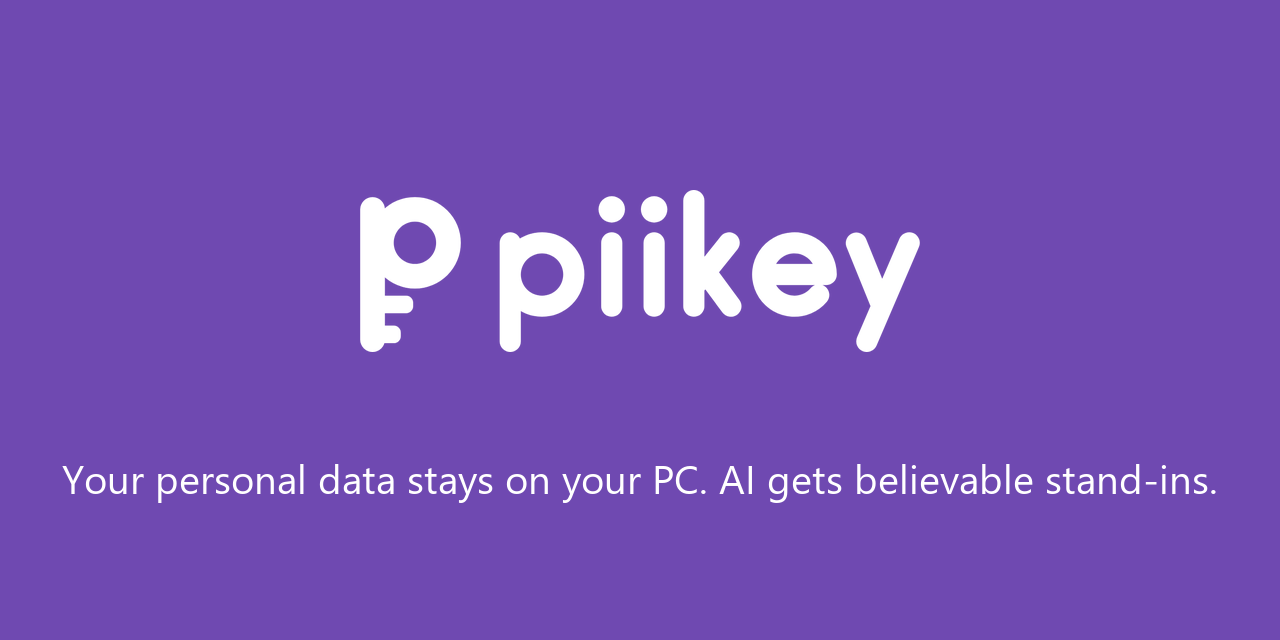
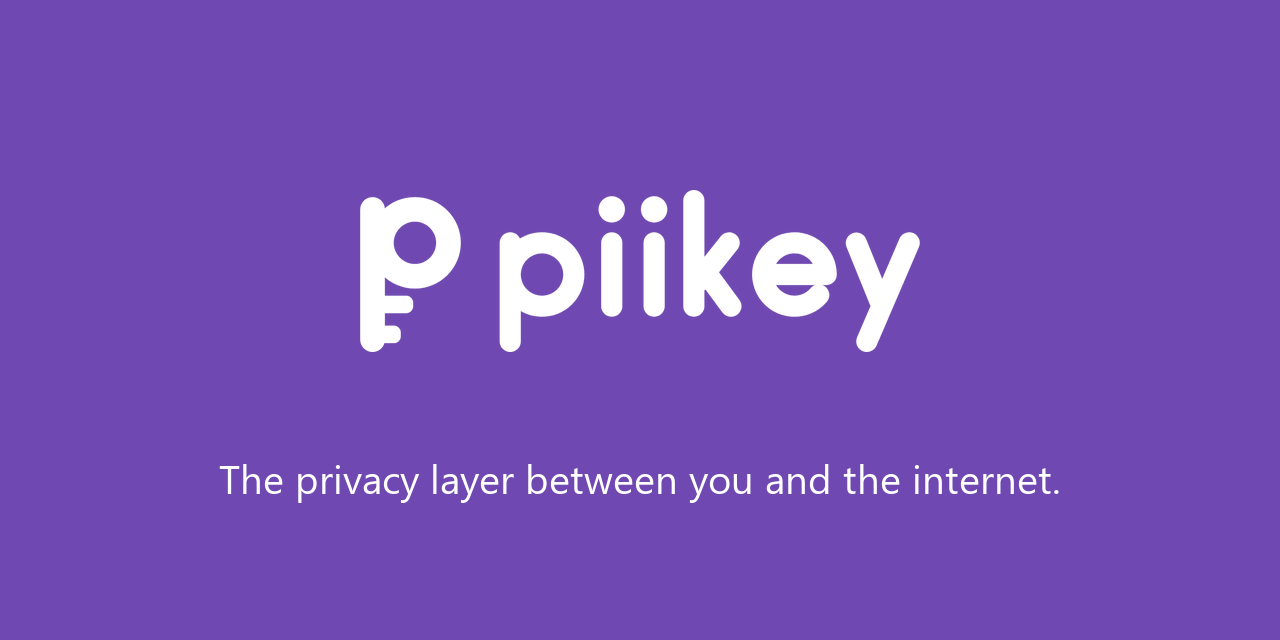
docs: lead the README with a before/after card, new tagline and fewer badges

Changed region(s): [[0.0312, 0.7188, 0.9375, 0.7812]]

diff --git a/assets/brand/make-hero.py b/assets/brand/make-hero.py
@@ -1,0 +1,135 @@
+"""Rebuilds docs/assets/hero-{light,dark}.png, the README's before/after card.
+
+Left: a message as you type it, your values marked. Right: what the site receives, each value
+swapped for piikey's stand-in. The text is real `piikey-cli anonymize` output; keep it that way
+when you change it. Transparent background, so it sits on GitHub's light or dark page.
+    python assets/brand/make-hero.py
+"""
+
+from pathlib import Path
+
+from PIL import Image, ImageDraw, ImageFont
+
+HERE = Path(__file__).resolve().parent
+OUT = HERE.parent.parent / "docs" / "assets"
+FONTS = Path(r"C:\Windows\Fonts")
+SYMBOL = HERE / "piikey-logo-kit" / "symbol" / "piikey-symbol-mono-{}-512.png"
+
+# (text, stand-in or None): plain text has None.
+MESSAGE = [
+    ("Hi, I'm ", None),
+    ("Sanne de Vries", "Eline de Deruiter"),
+    (" (", None),
+    ("sanne.devries@example.nl", "carolyn.carter38@olivedawn.nl"),
+    (", ", None),
+    ("+31 6 12345678", "+31 6 48171596"),
+    ("). Please refund €250 to ", None),
+    ("NL91ABNA0417164300", "NL69ABNA4201013737"),
+    (": my card ", None),
+    ("4111 1111 1111 1111", "4493 2819 7493 4301"),
+    (" was charged twice. I live at ", None),
+    ("Keizersgracht 123, 1015 CJ Amsterdam", "Crimsonvia 634, 4351 CJ Pinecliff"),
+    (".", None),
+]
+
+THEMES = {
+    "light": {
+        "card": "#ffffff", "border": "#e4dff0", "text": "#1f1f1f", "muted": "#6b6b78",
+        "own_bg": "#f1eff4", "own_fg": "#1f1f1f", "proxy_bg": "#ece4fb", "proxy_fg": "#5a37a0",
+        "accent": "#6f49b1", "symbol": "6f49b1",
+    },
+    "dark": {
+        "card": "#26232d", "border": "#3a3545", "text": "#ecebef", "muted": "#a19cad",
+        "own_bg": "#3a3742", "own_fg": "#ecebef", "proxy_bg": "#3f3360", "proxy_fg": "#d6c9f9",
+        "accent": "#d6c9f9", "symbol": "d6c9f9",
+    },
+}
+
+S = 2  # drawn at 2x for sharp text on high-DPI screens
+W, H = 1600 * S, 450 * S
+CARD_W, CARD_TOP, CARD_H = 660 * S, 40 * S, 330 * S
+PAD = 36 * S
+GAP = W - 2 * CARD_W - 2 * 40 * S  # the space between the cards, for the key and the arrow
+FONT = ImageFont.truetype(str(FONTS / "segoeui.ttf"), 25 * S)
+FONT_SB = ImageFont.truetype(str(FONTS / "segoeuisl.ttf"), 25 * S)
+LABEL = ImageFont.truetype(str(FONTS / "segoeuib.ttf"), 17 * S)
+CAPTION = ImageFont.truetype(str(FONTS / "segoeui.ttf"), 19 * S)
+LINE = 44 * S
+PILL_X = 7 * S
+
+
+def tokens(side: int):
+    """(word, marked) pieces; a marked value stays one piece so its pill is never split."""
+    for text, proxy in MESSAGE:
+        if proxy is None:
+            for i, word in enumerate(text.split(" ")):
+                yield ((" " if i else "") + word, False)
+        else:
+            yield ((text, proxy)[side], True)
+
+
+def card(draw: ImageDraw.ImageDraw, x: int, side: int, theme: dict, label: str) -> None:
+    draw.rounded_rectangle(
+        (x, CARD_TOP, x + CARD_W, CARD_TOP + CARD_H), 22 * S, fill=theme["card"], outline=theme["border"], width=2 * S
+    )
+    color = theme["accent"] if side else theme["muted"]
+    draw.text((x + PAD, CARD_TOP + PAD - 6 * S), label.upper(), font=LABEL, fill=color)
+    cx, cy = x + PAD, CARD_TOP + PAD + 40 * S
+    right = x + CARD_W - PAD
+    bg, fg = (theme["proxy_bg"], theme["proxy_fg"]) if side else (theme["own_bg"], theme["own_fg"])
+    for piece, marked in tokens(side):
+        font = FONT_SB if marked else FONT
+        width = draw.textlength(piece, font=font) + (2 * PILL_X if marked else 0)
+        if cx + width > right:
+            cx, cy = x + PAD, cy + LINE
+            piece = piece.lstrip()
+            width = draw.textlength(piece, font=font) + (2 * PILL_X if marked else 0)
+        if marked:
+            cx += 2 * S  # breathing room between a pill and the text before it
+            top = cy + 5 * S
+            draw.rounded_rectangle(
+                (cx, top, cx + draw.textlength(piece, font=font) + 2 * PILL_X, top + 34 * S), 8 * S, fill=bg
+            )
+            draw.text((cx + PILL_X, cy), piece, font=font, fill=fg)
+            cx += draw.textlength(piece, font=font) + 2 * PILL_X
+        else:
+            draw.text((cx, cy), piece, font=font, fill=theme["text"])
+            cx += width
+
+
+def middle(canvas: Image.Image, draw: ImageDraw.ImageDraw, theme: dict) -> None:
+    mid_x, mid_y = W // 2, CARD_TOP + CARD_H // 2
+    r = 46 * S
+    draw.ellipse((mid_x - r, mid_y - r, mid_x + r, mid_y + r), fill=theme["card"], outline=theme["accent"], width=3 * S)
+    symbol = Image.open(str(SYMBOL).format(theme["symbol"])).convert("RGBA")
+    size = int(r * 1.15)
+    symbol = symbol.resize((size, size), Image.Resampling.LANCZOS)
+    canvas.paste(symbol, (mid_x - size // 2, mid_y - size // 2), symbol)
+    for sign in (-1, 1):  # short arrow stems on both sides of the key, pointing right
+        start = mid_x + sign * (r + 10 * S)
+        end = mid_x + sign * (GAP // 2 - 8 * S)
+        a, b = sorted((start, end))
+        draw.line((a, mid_y, b, mid_y), fill=theme["accent"], width=3 * S)
+    tip = mid_x + GAP // 2 - 8 * S
+    draw.polygon([(tip, mid_y), (tip - 12 * S, mid_y - 9 * S), (tip - 12 * S, mid_y + 9 * S)], fill=theme["accent"])
+
+
+def render(name: str, theme: dict) -> None:
+    canvas = Image.new("RGBA", (W, H), (0, 0, 0, 0))
+    draw = ImageDraw.Draw(canvas)
+    left = 40 * S
+    card(draw, left, 0, theme, "You type")
+    card(draw, W - left - CARD_W, 1, theme, "The internet sees")
+    middle(canvas, draw, theme)
+    caption = "Same shape, still valid: the IBAN passes mod-97, the card passes Luhn. The reply comes back with your real values."
+    width = draw.textlength(caption, font=CAPTION)
+    draw.text(((W - width) // 2, CARD_TOP + CARD_H + 22 * S), caption, font=CAPTION, fill=theme["muted"])
+    OUT.mkdir(parents=True, exist_ok=True)
+    out = OUT / f"hero-{name}.png"
+    canvas.save(out, optimize=True)
+    print(f"wrote {out}")
+
+
+if __name__ == "__main__":
+    for name, theme in THEMES.items():
+        render(name, theme)

diff --git a/assets/brand/make-social-preview.py b/assets/brand/make-social-preview.py
@@ -18,7 +18,7 @@ SIZE = (1280, 640)
 PURPLE = "#6f49b1"
 LOGO_WIDTH = 560
 LOGO_TOP = 190
-TAGLINE = "Your personal data stays on your PC. AI gets believable stand-ins."
+TAGLINE = "The privacy layer between you and the internet."
 TAGLINE_SIZE = 40
 TAGLINE_TOP = 450
 

diff --git a/README.md b/README.md
@@ -5,17 +5,22 @@
   <img alt="piikey" src="assets/brand/piikey-logo-kit/horizontal/piikey-horizontal-mono-6f49b1.svg" height="96">
 </picture>
 
-<h3>Your personal data stays on your PC. AI gets believable stand-ins.</h3>
+<h3>The privacy layer between you and the internet.</h3>
 
-[![CI](https://github.com/TBLgGamin/piikey/actions/workflows/ci.yml/badge.svg?branch=main)](https://github.com/TBLgGamin/piikey/actions/workflows/ci.yml)
 [![Release](https://img.shields.io/github/v/release/TBLgGamin/piikey?sort=semver&color=6f49b1&style=flat)](https://github.com/TBLgGamin/piikey/releases/latest)
 [![Downloads](https://img.shields.io/github/downloads/TBLgGamin/piikey/total?color=6f49b1&style=flat)](https://github.com/TBLgGamin/piikey/releases)
+[![CI](https://github.com/TBLgGamin/piikey/actions/workflows/ci.yml/badge.svg?branch=main)](https://github.com/TBLgGamin/piikey/actions/workflows/ci.yml)
 [![License: MIT](https://img.shields.io/github/license/TBLgGamin/piikey?style=flat)](LICENSE)
-[![Platform](https://img.shields.io/badge/platform-Windows%2010%20%7C%2011-0078D6?logo=windows&style=flat)](#install)
-[![Rust 1.95](https://img.shields.io/badge/rust-1.95-orange?logo=rust&style=flat)](rust-toolchain.toml)
-[![unsafe forbidden](https://img.shields.io/badge/unsafe-forbidden-success?style=flat)](Cargo.toml)
-[![OpenSSF Scorecard](https://api.scorecard.dev/projects/github.com/TBLgGamin/piikey/badge)](https://scorecard.dev/viewer/?uri=github.com/TBLgGamin/piikey)
-[![Conventional Commits](https://img.shields.io/badge/Conventional%20Commits-1.0.0-%23FE5196?logo=conventionalcommits&logoColor=white&style=flat)](https://www.conventionalcommits.org)
+[![Windows 10 | 11](https://img.shields.io/badge/Windows-10%20%7C%2011-0078D6?logo=windows&style=flat)](#install)
+
+<br>
+
+<picture>
+  <source media="(prefers-color-scheme: dark)" srcset="docs/assets/hero-dark.png">
+  <img alt="You type: Hi, I'm Sanne de Vries (sanne.devries@example.nl, +31 6 12345678)... The internet sees: Hi, I'm Eline de Deruiter (carolyn.carter38@olivedawn.nl, +31 6 48171596)..., every value swapped for a stand-in of the same shape" src="docs/assets/hero-light.png" width="100%">
+</picture>
+
+<br><br>
 
 [![Download for Windows x64](https://img.shields.io/badge/Download-Windows%20x64-6f49b1?style=for-the-badge&logo=windows&logoColor=white)](https://github.com/TBLgGamin/piikey/releases/latest)
 
@@ -23,31 +28,21 @@
 
 </div>
 
-<br>
+## What it is
+
+piikey sits between you and the sites and programs you choose: chatbots, webmail, forms, anything
+that goes through the Windows proxy. Before a message leaves your PC, it finds the names, emails,
+phone numbers, IBANs, card numbers, addresses and other personal data in it and swaps each one for a
+believable stand-in of the same shape. When the answer comes back, piikey puts your real values
+back in. Detection, the stand-ins and the vault that remembers them all stay on your machine.
+
+The example above is real `piikey-cli anonymize` output, and `piikey-cli deanonymize` turns the
+right side back into the left character for character.
 
 <picture>
   <source media="(prefers-color-scheme: dark)" srcset="docs/assets/screenshots/home-dark.png">
   <img alt="piikey's Home page: protection switch, values keyed, masked and restored today, a 14-day chart and a by-kind chart" src="docs/assets/screenshots/home-light.png" width="900">
 </picture>
-
-## What it is
-
-piikey sits between you and the AI chatbots you use. Before a message leaves your PC, it finds the
-names, emails, phone numbers, IBANs, card numbers, addresses and other personal data in it and
-swaps each one for a believable stand-in of the same shape. When the answer comes back, piikey puts
-your real values back in. Detection, the stand-ins and the vault that remembers them all stay on
-your machine.
-
-## See it work
-
-| You type | The AI receives |
-|---|---|
-| Hi, I'm Sanne de Vries (sanne.devries@example.nl, +31 6 12345678). Please refund €250 to NL91ABNA0417164300: my card 4111 1111 1111 1111 was charged twice. I live at Keizersgracht 123, 1015 CJ Amsterdam. | Hi, I'm Eline de Deruiter (carolyn.carter38@olivedawn.nl, +31 6 48171596). Please refund €250 to NL69ABNA4201013737: my card 4493 2819 7493 4301 was charged twice. I live at Crimsonvia 634, 4351 CJ Pinecliff. |
-
-That is real `piikey-cli anonymize` output. The stand-ins keep their shape: the IBAN still passes
-mod-97, the card still passes Luhn, the phone number is still Dutch. Running `piikey-cli
-deanonymize` on the right column gives back the left column character for character, and the app
-does the same to the chatbot's reply as it streams in.
 
 ## Features
 
@@ -78,7 +73,7 @@ sequenceDiagram
     participant You
     participant App as Browser or app
     participant piikey as piikey (on your PC)
-    participant AI as AI service
+    participant AI as Website or AI service
     You->>App: type or paste a message
     App->>piikey: request with your message
     piikey->>piikey: find personal data, issue stand-ins, store the pairs in the vault

diff --git a/AGENTS.md b/AGENTS.md
@@ -80,7 +80,7 @@ CI runs all three on Windows. Never bypass hooks with `--no-verify`.
 |`app/src/ui/`|WinUI 3 app: `controller.rs` (state machine on a worker thread, unit-tested; model download state, model load/release with protection; `keyed()` serves the activity feed with its filters), `window.rs` + `pages.rs` (Home, Keyed values feed with kind/site/time filters, Settings with per-kind switches, first-run loading screen), `activity.rs` (which stand-in went to which site when, persisted in `activity.cfg`; no originals), `stats.rs` (daily counts for the Home chart), `assets.rs` (brand logos per theme, `.ico`), tray icon in `mod.rs`, `instance.rs` (one app per user), `watchdog.rs` (restores the Windows proxy when the app dies; `--watchdog` / `--restore-proxy` modes)|
 |`app/src/model.rs`|first-run model download with `curl.exe` (resumes) and SHA-256 check with `certutil`|
 |`app/assets/`|`piikey.ico` (app icon at 16/20/24/32/40/48/64/256 px, generated by `assets/brand/make-icons.py`; embedded in both exes via `piikey.rc` + `build.rs` and in the app UI), `piikey.rc` (icon and version resource), `rc_macros.rs` (the version macros, `include!`d by both build scripts)|
-|`assets/brand/`|`piikey-logo-kit/`: the full brand kit, kept verbatim (light `#6f49b1`, dark `#d6c9f9`; its README says which file to use); `make-icons.py` rebuilds `app/assets/piikey.ico` from it; `make-social-preview.py` rebuilds `social-preview.png` (GitHub social preview)|
+|`assets/brand/`|`piikey-logo-kit/`: the full brand kit, kept verbatim (light `#6f49b1`, dark `#d6c9f9`; its README says which file to use); `make-icons.py` rebuilds `app/assets/piikey.ico` from it; `make-social-preview.py` rebuilds `social-preview.png` (GitHub social preview); `make-hero.py` rebuilds the README's before/after card `docs/assets/hero-{light,dark}.png` (its text is real `piikey-cli` output)|
 |`.cargo/config.toml`|`fmt-check` / `lint` aliases shared by hooks and CI|
 |`.husky/`|git hooks: `pre-commit` (release guard, fmt, lint), `commit-msg` (commitlint), `pre-push` (no hand-pushed tags, tests)|
 |`scripts/release-guard.mjs`|keeps versions, `CHANGELOG.md` and tags in release-plz's hands (modes `staged`, `pre-push`, `ci`)|
@@ -88,4 +88,4 @@ CI runs all three on Windows. Never bypass hooks with `--no-verify`.
 |`packaging/windows/`|`package.ps1` (release folder, zip, Inno Setup installer `piikey.iss`, `SHA256SUMS.txt`), `smoke.ps1` (CI-only install/uninstall check), `about.hbs` (third-party license page)|
 |`deny.toml`, `about.toml`|cargo-deny (licenses, advisories, sources) and cargo-about (`THIRD_PARTY_LICENSES.html`) settings|
 |`.github/`|workflows (`ci`, `codeql`, `scorecard`, `release` = release-plz + `release-assets`), issue/PR templates, Dependabot, CODEOWNERS|
-|`docs/`|`how-it-works.md` (detection, proxy and capture, devices, formats, crash safety), `assets/screenshots/` (README images)|
+|`docs/`|`how-it-works.md` (detection, proxy and capture, devices, formats, crash safety), `assets/hero-*.png` and `assets/screenshots/` (README images)|
